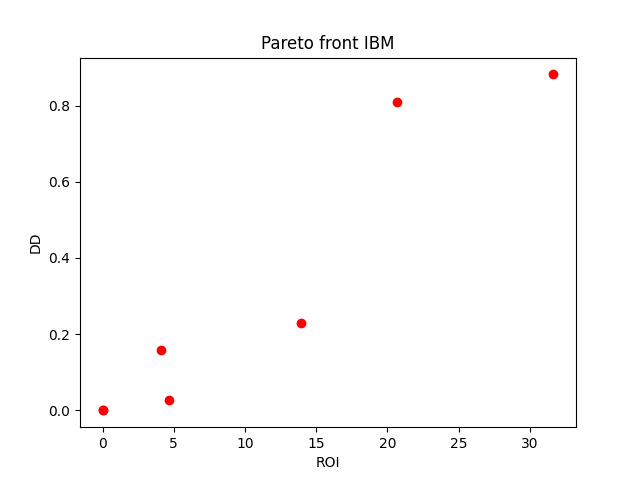
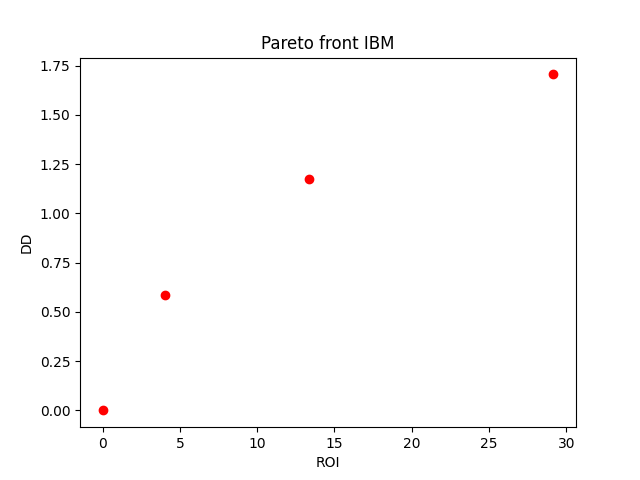
tabela do 3.4 correta

diff --git a/Proj2/ROImaximization_DDminimization.py b/Proj2/ROImaximization_DDminimization.py
@@ -58,7 +58,7 @@ csvs_names = ['AAL', 'AAPL', 'AMZN', 'BAC', 'F', 'GOOG', 'IBM', 'INTC', 'NVDA', 
 
 GENERATIONS = 156
 INITIAL_POPULATION = 64
-N_RUNS = 30
+N_RUNS = 1
 INFINITY = np.inf
 GAP_ANALYZED = 50
 PERF_THRESHOLD = 1
@@ -298,7 +298,8 @@ def oa_csv(csv_name, start_date_training, end_date_training):
     hof = tools.HallOfFame(1)
     
     improve_perf = INFINITY
-    max_by_generations = []
+    max_by_generationsROI = []
+    min_by_generationsDD = []
     
     # Begin the evolution
     while g < GENERATIONS and improve_perf > PERF_THRESHOLD: #TODO TESTAR THRESHOLD
@@ -360,18 +361,22 @@ def oa_csv(csv_name, start_date_training, end_date_training):
         
         
         # Gather all the fitnesses in one list and print the stats
-        fits = [ind.fitness.values[0] for ind in pop]
+        fits = [ind.fitness.values for ind in pop]
         
         pareto.update(pop)
         hof.update(pop)
         
         length = len(pop)
-        mean = sum(fits) / length
-        sum2 = sum(x*x for x in fits)
-        std = abs(sum2 / length - mean**2)**0.5
         
+        # meanROI = sum(fits[0]) / length
+        # sum2ROI = sum(x*x for x in fits[0])
+        # stdROI = abs(sum2ROI / length - meanROI**2)**0.5
+        max_by_generationsROI.append(max(fits[0]))
         
-        max_by_generations.append(max(fits))
+        # meanDD = sum(fits[1]) / length
+        # sum2DD = sum(x*x for x in fits[1])
+        # stdDD = abs(sum2DD / length - meanDD**2)**0.5
+        min_by_generationsDD.append(min(fits[0]))
         
         # print("  Min %s" % min(fits))
         # print("  Max %s" % max(fits))
@@ -379,7 +384,9 @@ def oa_csv(csv_name, start_date_training, end_date_training):
         # print("  Std %s" % std)
         
         if g > GAP_ANALYZED:
-            improve_perf = max_by_generations[g - 1] - max_by_generations[g - GAP_ANALYZED - 1]  
+            improve_perf_ROI = max_by_generationsROI[g - 1] - max_by_generationsROI[g - GAP_ANALYZED - 1]  
+            improve_perf_DD = - (min_by_generationsDD[g - 1] - min_by_generationsDD[g - GAP_ANALYZED - 1])  
+            improve_perf = improve_perf_ROI + improve_perf_DD
         
         best_ind_gen = tools.selBest(pop, 1)[0]
         # print("Best individual in generation %d: %s, %s" % (g, best_ind_gen, best_ind_gen.fitness.values))
@@ -390,9 +397,12 @@ def oa_csv(csv_name, start_date_training, end_date_training):
     best_ind = tools.selBest(pop, 1)[0]
     print("Best individual is %s, %s" % (best_ind, best_ind.fitness.values))
     print('Obtained at generation ', g)
-    print('Succesive generations maximums ', max_by_generations)
+    print('Succesive generations maximums ', max_by_generationsROI)
     
-    return max(fits), min(fits), mean, std, best_ind, best_ind.fitness.values, pareto
+    fit_maxROI = max(fits, key=lambda x: x[0])
+    fit_minDD = min(fits, key=lambda x: x[1])
+    
+    return fit_maxROI, fit_minDD, best_ind, best_ind.fitness.values, pareto
 
 def generate_paretos(pareto_csvs):
     # Plot current population and Pareto front
@@ -414,19 +424,17 @@ def main3_4_1(start_date_training, end_date_training):
     result = pd.DataFrame()
     result['Stocks'] = csvs_names
     
-    max_final = []
-    min_final = []
-    avg_final = []
-    std_final = []
+    final_maxROI_ROI = []
+    final_maxROI_DD = []
+    final_minDD_ROI = []
+    final_minDD_DD = []
     best_individuals_csvs = []
     fitness_csvs = []
     pareto_csvs = []
     
     for name in csvs_names:
-        list_max = []
-        list_min = []
-        list_avg = []
-        list_std = []
+        list_maxROI = []
+        list_minDD = []
         fitness_final = []
         best_individuals = []
         pareto_csv = []
@@ -434,30 +442,33 @@ def main3_4_1(start_date_training, end_date_training):
          
         for i in range(N_RUNS):
             random.seed(i)
-            max, min, avg, std, best_individual, fitness, pareto = oa_csv(name, start_date_training, end_date_training)
+            maxROI, minDD, best_individual, fitness, pareto = oa_csv(name, start_date_training, end_date_training)
             pareto_csv.append(pareto)
             best_individuals.append(best_individual)
-            list_max.append(max)
-            list_min.append(min)
-            list_avg.append(avg)
-            list_std.append(std)
             fitness_final.append(fitness[0])
+            list_maxROI.append(maxROI)
+            list_minDD.append(minDD)
         best_individuals_csvs.append(best_individuals)
-        max_final.append(np.max(list_max))
-        min_final.append(np.min(list_min))
-        avg_final.append(np.mean(list_avg))
-        std_final.append(np.std(fitness_final))
         fitness_csvs.append(fitness_final)
-        pareto_csvs.append(pareto_csv)        
+        pareto_csvs.append(pareto_csv)     
+        
+        fit_maxROI = max(list_maxROI, key=lambda x: x[0])
+        fit_minDD = min(list_minDD, key=lambda x: x[1])
+      
+        final_maxROI_ROI.append(fit_maxROI[0])
+        final_maxROI_DD.append(fit_maxROI[1])
+        final_minDD_ROI.append(fit_minDD[0])
+        final_minDD_DD.append(fit_minDD[1]) 
     
-    result['Max'] = max_final 
-    result['Min'] = min_final
-    result['Mean'] = avg_final 
-    result['STD'] = std_final 
+    result['MaxROI_ROI'] = final_maxROI_ROI
+    result['maxROI_DD'] = final_maxROI_DD
+    result['minDD_ROI'] = final_minDD_ROI
+    result['minDD_DD'] = final_minDD_DD
+    
     result.to_csv('ACI_Project2_2324_Data/' + 'results_3_4_1' + '.csv', index = None, header=True, encoding='utf-8')
     
     generate_paretos(pareto_csvs)
-    
+
 def main3_4_2(start_date_training, end_date_training):
     
     train_result = pd.DataFrame()
@@ -466,64 +477,66 @@ def main3_4_2(start_date_training, end_date_training):
     test_result = pd.DataFrame()
     test_result['Stocks'] = csvs_names
     
-    test_max_final = []
-    test_min_final = []
-    test_avg_final = []
-    test_std_final = []
+    test_final_maxROI_ROI = []
+    test_final_maxROI_DD = []
+    test_final_minDD_ROI = []
+    test_final_minDD_DD = []
     
-    train_max_final = []
-    train_min_final = []
-    train_avg_final = []
-    train_std_final = []
+    train_final_maxROI_ROI = []
+    train_final_maxROI_DD = []
+    train_final_minDD_ROI = []
+    train_final_minDD_DD = []
     
     best_individuals_csvs = []
     fitness_csvs = []
-    eval_csvs = []
+    eval_csvs = []    
     
     for name in csvs_names:
-        
-        list_max = []
-        list_min = []
-        list_avg = []
-        list_std = []
+        list_maxROI = []
+        list_minDD = []
         fitness_final = []
         best_individuals = []
         eval_csv = []
+        print(name)
         for i in range(N_RUNS):
             random.seed(i)
-            max, min, avg, std, best_individual, fitness, _ = oa_csv(name, start_date_training, end_date_training)
-            best_individuals.append(best_individual)
-            list_max.append(max)
-            list_min.append(min)
-            list_avg.append(avg)
-            list_std.append(std)
+            maxROI, minDD, best_individual, fitness, pareto = oa_csv(name, start_date_training, end_date_training)
+            list_maxROI.append(maxROI)
+            list_minDD.append(minDD)
             fitness_final.append(fitness[0])
+            best_individuals.append(best_individual)
             eval_csv.append(evalROI_DD(best_individual, name, '2020-01-01', '2022-12-31')) #training
-        best_individuals_csvs.append(best_individuals)
         
+        best_individuals_csvs.append(best_individuals)
+        fitness_csvs.append(fitness_final)        
         eval_csvs.append(eval_csv)
         
-        train_max_final.append(np.max(list_max))
-        train_min_final.append(np.min(list_min))
-        train_avg_final.append(np.mean(list_avg))
-        train_std_final.append(np.std(fitness_final))
-        fitness_csvs.append(fitness_final)  
+        train_fit_maxROI = max(list_maxROI, key=lambda x: x[0])
+        train_fit_minDD = min(list_minDD, key=lambda x: x[1])
         
-        test_max_final.append(np.max(eval_csv))
-        test_min_final.append(np.min(eval_csv))
-        test_avg_final.append(np.mean(eval_csv))
-        test_std_final.append(np.std(eval_csv))      
+        train_final_maxROI_ROI.append(train_fit_maxROI[0])
+        train_final_maxROI_DD.append(train_fit_maxROI[1])
+        train_final_minDD_ROI.append(train_fit_minDD[0])
+        train_final_minDD_DD.append(train_fit_minDD[1])
+        
+        test_fit_maxROI = max(eval_csv, key=lambda x: x[0])
+        test_fit_minDD = min(eval_csv, key=lambda x: x[1])
+        
+        test_final_maxROI_ROI.append(test_fit_maxROI[0])
+        test_final_maxROI_DD.append(test_fit_maxROI[1])
+        test_final_minDD_ROI.append(test_fit_minDD[0])
+        test_final_minDD_DD.append(test_fit_minDD[1])    
     
-    train_result['Max'] = train_max_final 
-    train_result['Min'] = train_min_final
-    train_result['Mean'] = train_avg_final 
-    train_result['STD'] = train_std_final 
+    train_result['MaxROI_ROI'] = train_final_maxROI_ROI
+    train_result['maxROI_DD'] = train_final_maxROI_DD
+    train_result['minDD_ROI'] = train_final_minDD_ROI
+    train_result['STD'] = train_final_minDD_DD
     train_result.to_csv('ACI_Project2_2324_Data/' + 'train_results_3_4_2' + '.csv', index = None, header=True, encoding='utf-8')
     
-    test_result['Max'] = test_max_final 
-    test_result['Min'] = test_min_final
-    test_result['Mean'] = test_avg_final 
-    test_result['STD'] = test_std_final 
+    test_result['MaxROI_ROI'] = test_final_maxROI_ROI
+    test_result['maxROI_DD'] = test_final_maxROI_DD
+    test_result['minDD_ROI'] = test_final_minDD_ROI
+    test_result['minDD_DD'] = test_final_minDD_DD
     test_result.to_csv('ACI_Project2_2324_Data/' + 'test_results_3_4_2' + '.csv', index = None, header=True, encoding='utf-8')
 
 import time

diff --git a/Proj2/ROImaximization_DDminimizationtesting.py b/Proj2/ROImaximization_DDminimizationtesting.py
@@ -63,7 +63,7 @@ INFINITY = np.inf
 GAP_ANALYZED = 8
 PERF_THRESHOLD = 1
  
-MUTPB = 0.7
+MUTPB = 0.1
 indpbMut = 0.5
 CXPB = 0.7
 CrossType = 'OnePoint'
@@ -403,23 +403,19 @@ def oa_csv(csv_name, start_date_training, end_date_training):
 def main3_4_1(start_date_training, end_date_training):
     
     result = pd.DataFrame()
-    csvs_names_to_df = csvs_names.copy()
-    csvs_names_to_df.append(None)
-    result['Stocks'] = csvs_names_to_df
+    result['Stocks'] = csvs_names
     
-    max_final = []
-    min_final = []
-    avg_final = []
-    std_final = []
+    final_maxROI_ROI = []
+    final_maxROI_DD = []
+    final_minDD_ROI = []
+    final_minDD_DD = []
     best_individuals_csvs = []
     fitness_csvs = []
     pareto_csvs = []
     
     for name in csvs_names:
-        list_max = []
-        list_min = []
-        list_avg = []
-        list_std = []
+        list_maxROI = []
+        list_minDD = []
         fitness_final = []
         best_individuals = []
         pareto_csv = []
@@ -427,31 +423,33 @@ def main3_4_1(start_date_training, end_date_training):
          
         for i in range(N_RUNS):
             random.seed(i)
-            max, min, avg, std, best_individual, fitness, pareto = oa_csv(name, start_date_training, end_date_training)
+            maxROI, minDD, best_individual, fitness, pareto = oa_csv(name, start_date_training, end_date_training)
             pareto_csv.append(pareto)
             best_individuals.append(best_individual)
-            list_max.append(max)
-            list_min.append(min)
-            list_avg.append(avg)
-            list_std.append(std)
             fitness_final.append(fitness[0])
+            list_maxROI.append(maxROI)
+            list_minDD.append(minDD)
         best_individuals_csvs.append(best_individuals)
-        max_final.append(np.max(list_max))
-        min_final.append(np.min(list_min))
-        avg_final.append(np.mean(list_avg))
-        std_final.append(np.std(fitness_final))
         fitness_csvs.append(fitness_final)
-        pareto_csvs.append(pareto_csv)        
+        pareto_csvs.append(pareto_csv)     
+        
+        fit_maxROI = max(list_maxROI, key=lambda x: x[0])
+        fit_minDD = min(list_minDD, key=lambda x: x[1])
+      
+        final_maxROI_ROI.append(fit_maxROI[0])
+        final_maxROI_DD.append(fit_maxROI[1])
+        final_minDD_ROI.append(fit_minDD[0])
+        final_minDD_DD.append(fit_minDD[1]) 
     
-    max_final.append(np.mean(max_final))
-    min_final.append(None)
-    avg_final.append(None)
-    std_final.append(None)
+    final_maxROI_ROI.append(np.mean(final_maxROI_ROI))
+    final_maxROI_DD.append(np.mean(final_maxROI_DD))
+    final_minDD_ROI.append(np.mean(final_minDD_ROI))
+    final_minDD_DD.append(np.mean(final_minDD_DD))
     
-    result['Max'] = max_final 
-    result['Min'] = min_final
-    result['Mean'] = avg_final 
-    result['STD'] = std_final 
+    result['MaxROI_ROI'] = final_maxROI_ROI
+    result['maxROI_DD'] = final_maxROI_DD
+    result['minDD_ROI'] = final_minDD_ROI
+    result['minDD_DD'] = final_minDD_DD
     
     nameee = '_PMut' + str(MUTPB) + '_indpb' + str(indpbMut) + '_Cross' + CrossType + '_PCross' + str(CXPB) + '_Sel' + SelType
     result.to_csv('ACI_Project2_2324_Data/tuning_3_4/' + 'results' + nameee + '.csv', index = None, header=True, encoding='utf-8')

diff --git a/Proj2/ROImaximizationtesting.py b/Proj2/ROImaximizationtesting.py
@@ -185,7 +185,9 @@ def evalROI(individual, csv_name, start_date, end_date):
             ROI_short += ((begin_SP - end_SP)/begin_SP) * 100
             begin_SP = -1
             end_SP = -1
-        
+
+    if ROI_short < 0 or ROI_long < 0:
+        print('aaaa')
     # Retornar media dos ROIs de cada individuo
     return (ROI_short + ROI_long)/2,
 
